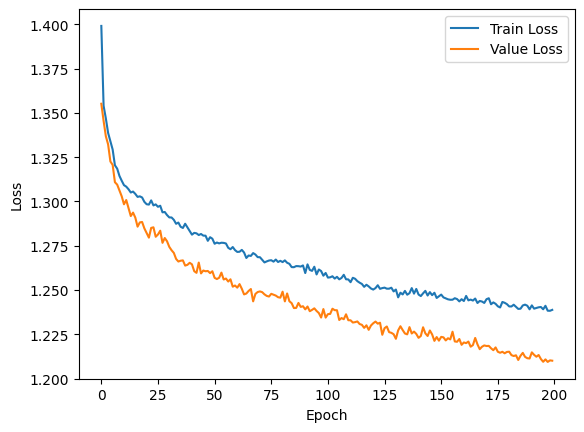
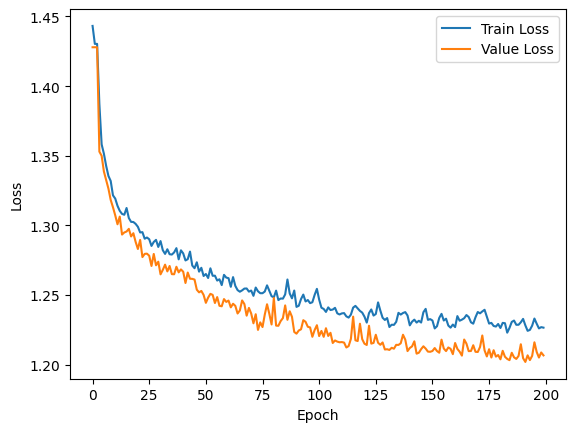
FINISHED TRAINING

diff --git a/train.py b/train.py
@@ -154,23 +154,24 @@ class MLP(nn.Module): #In python, we can make something called a "Class". We wil
       #### ANSWER HERE #####
       sizes = [input_size, *inner_layers, output_size]
       
-      layers = []
+      self.layers = []
       for index in range(1, len(sizes)):
-        layers.append(torch.nn.Linear(sizes[index - 1], sizes[index]))
+        self.layers.append(torch.nn.Linear(sizes[index - 1], sizes[index]))
         # Use Sigmoid for output layer (since it's a classification task)
         # and LeakyReLU for everything else
         if index < len(sizes) - 1:
-          layers.append(torch.nn.LeakyReLU(negative_slope=leaky_relu_negative_slope))
+          self.layers.append(torch.nn.LeakyReLU(negative_slope=leaky_relu_negative_slope))
         else:
-          if type == 'bc': layers.append(torch.nn.Sigmoid())
-          elif type == 'mc': layers.append(torch.nn.Softmax(dim=1))
-          else: layers.append(torch.nn.ReLU())  # For regression tasks
+          if type == 'bc': self.layers.append(torch.nn.Sigmoid())
+          elif type == 'mc': self.layers.append(torch.nn.Softmax(dim=1))
+          else: self.layers.append(torch.nn.ReLU())  # For regression tasks
           
-      self.model = torch.nn.Sequential(*layers)
+      self.model = torch.nn.Sequential(*self.layers)
 
   def forward(self, x):
         x = self.dropout(x)
         out = self.model(x)
+        
         return out
 
 def train_model(
@@ -187,7 +188,8 @@ def train_model(
         # bc, mc or regression
         output_type: str = 'bc',
         hidden_layer_sizes: list[int] | str | None = None,
-        random_state: int | None = None):
+        random_state: int | None = None,
+        batch_size: int = 25):
     if Loss == None:
         if output_type == 'bc':
             Loss = nn.BCELoss
@@ -252,7 +254,7 @@ def train_model(
     train_data = TensorDataset(X_train, y_train) # Here we load our data into a Pytorch Dataset, which is just a way to bundle the features with their corresponding labels
     test_data = TensorDataset(X_test, y_test)
 
-    train_dataloader = DataLoader(train_data, batch_size=25, shuffle=True) # We also use something called a "DataLoader" -- this is useful for feeding our data in batches into the model instead of all at once.
+    train_dataloader = DataLoader(train_data, batch_size=batch_size, shuffle=True) # We also use something called a "DataLoader" -- this is useful for feeding our data in batches into the model instead of all at once.
     val_dataloader = DataLoader(test_data, batch_size=len(y_test), shuffle=True)
 
     # We instantiate our model
@@ -277,3 +279,4 @@ def train_model(
     print(other_metrics)
 
     return model
+

diff --git a/main.py b/main.py
@@ -15,7 +15,7 @@ def train_epipen(dataframe: pd.DataFrame):
     return train_model(dataframe, output='Flag_EpiPen', device='cpu', epochs=20, save_folder='model_output')
 def train_allergen_type(dataframe: pd.DataFrame):
     return train_model(dataframe, output='Allergen_Type', epochs=200, device='cpu', output_type='mc', save_folder='model_output',
-                       hidden_layer_sizes=[64, 32, 32])
+                       hidden_layer_sizes=[512, 256, 128, 64, 32], batch_size=64)
 
 if __name__ == '__main__':
     dataframe = None
